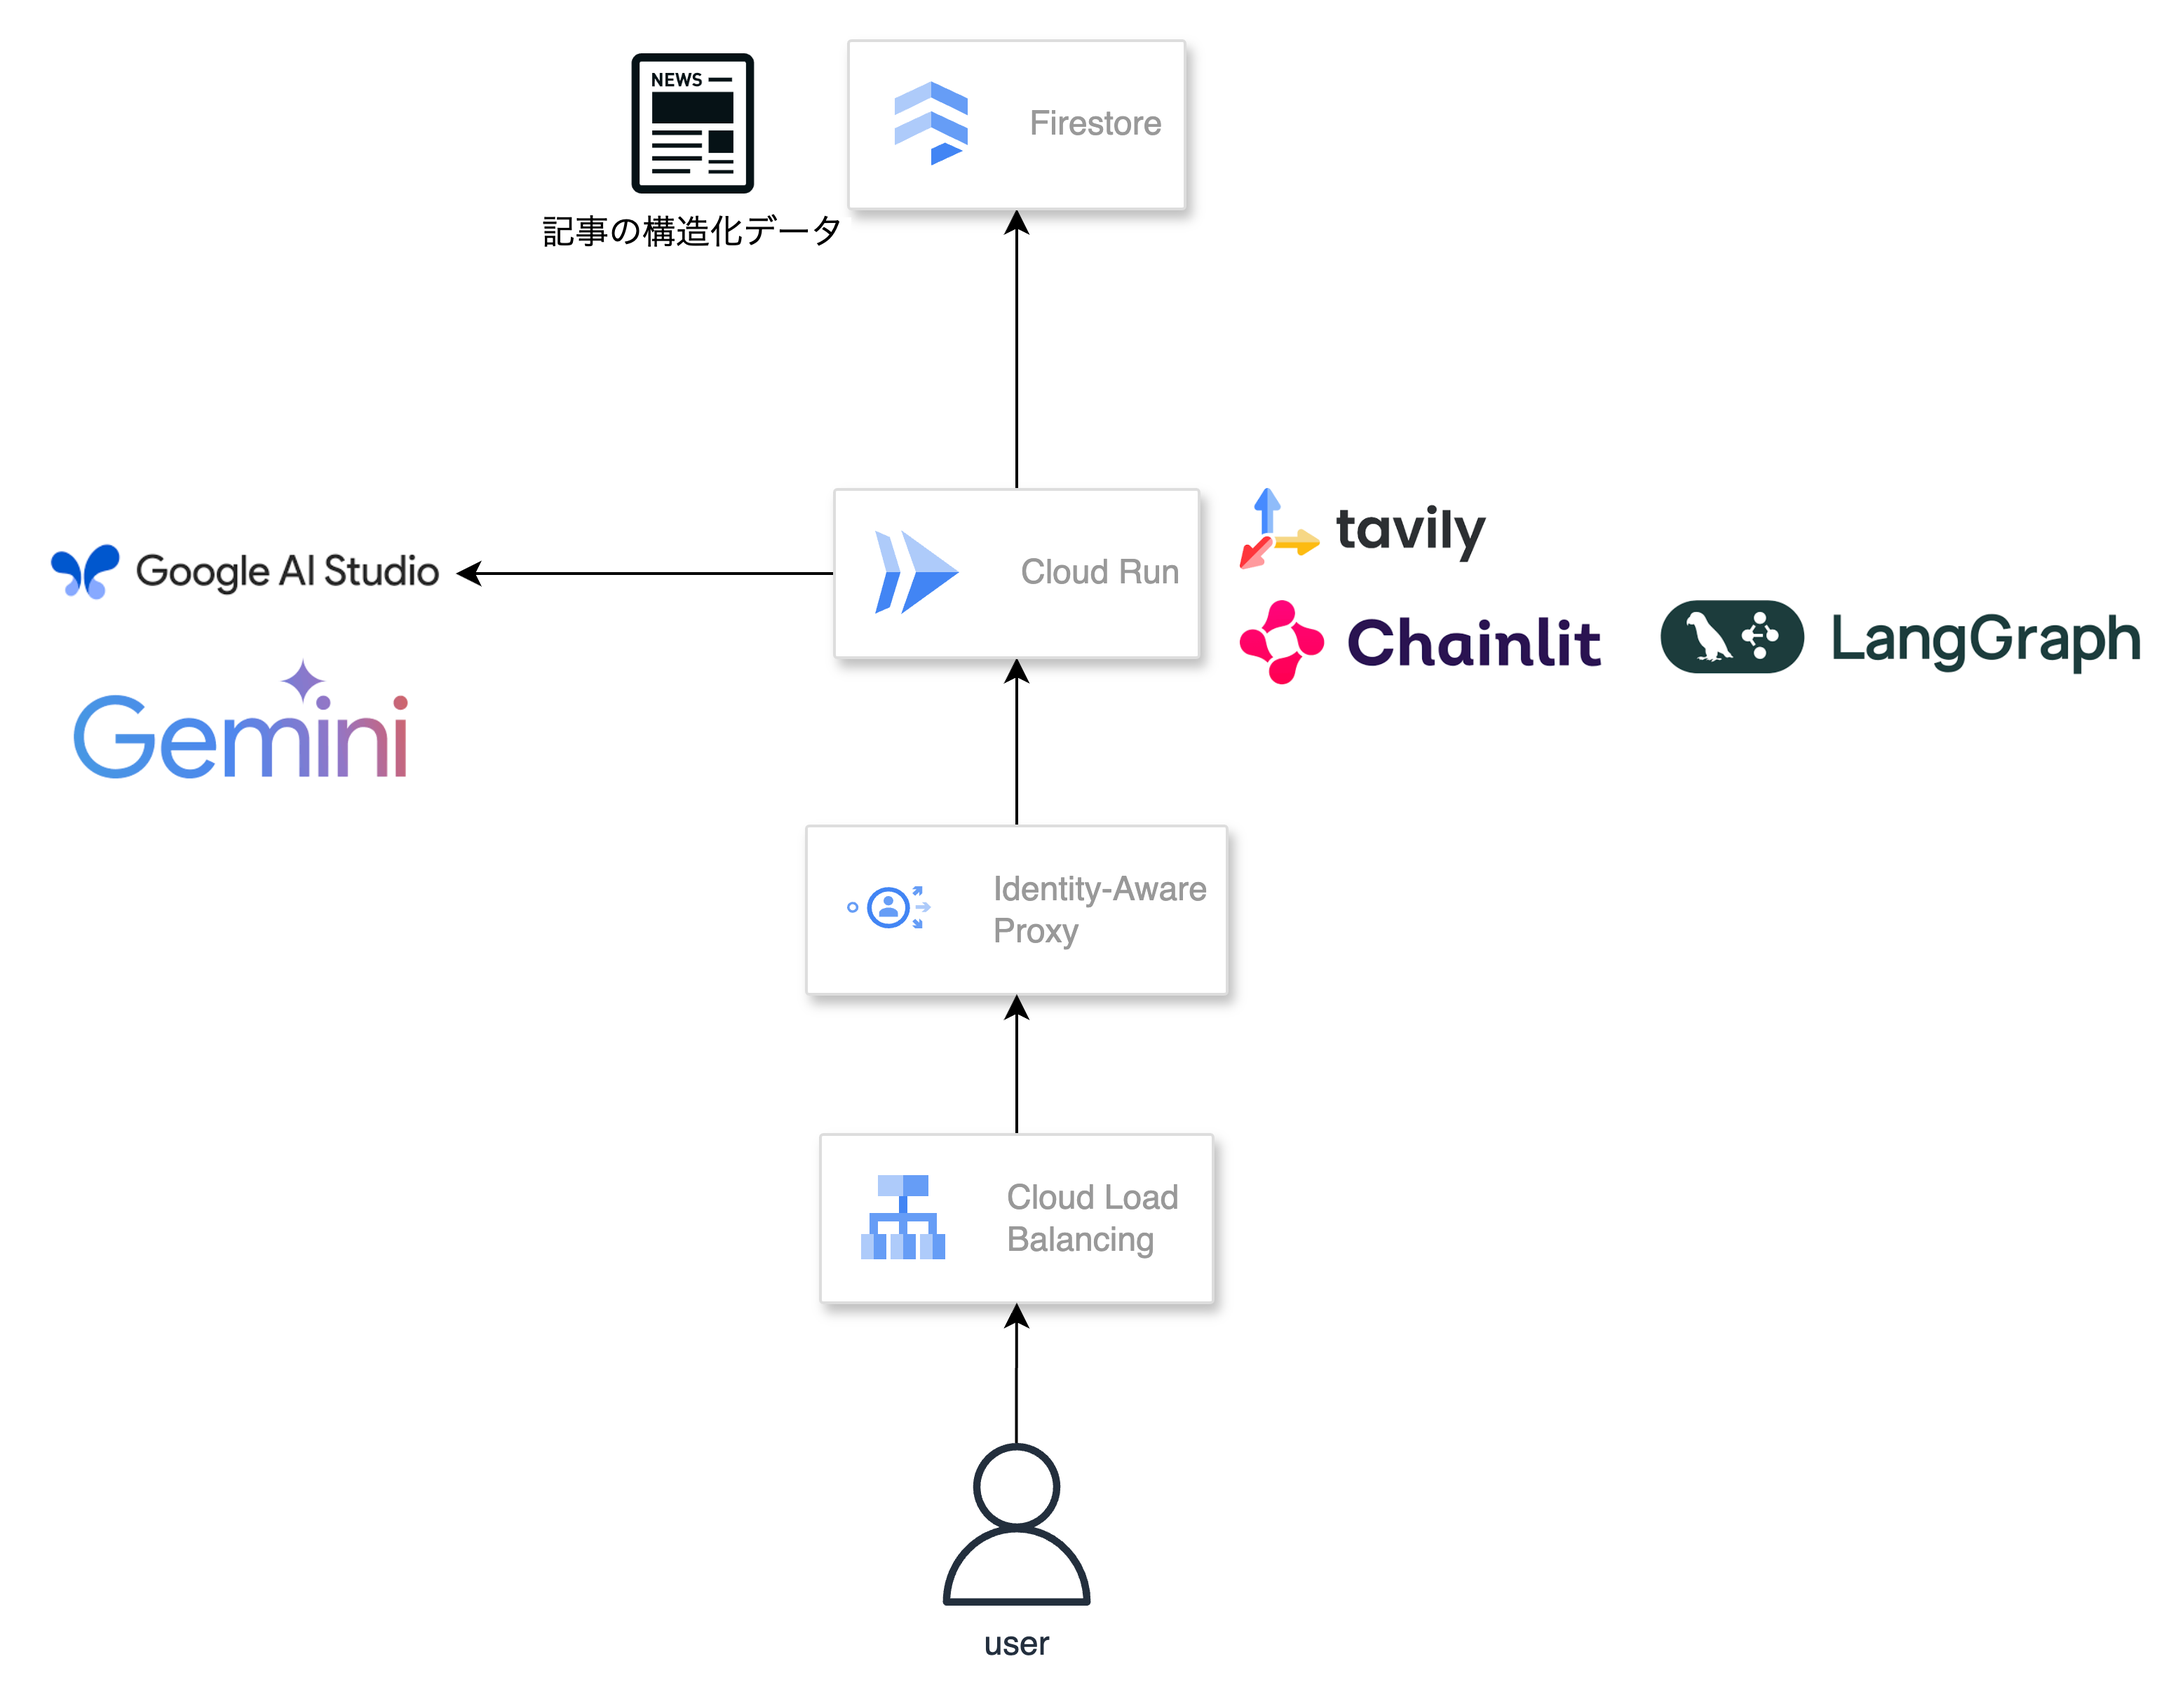
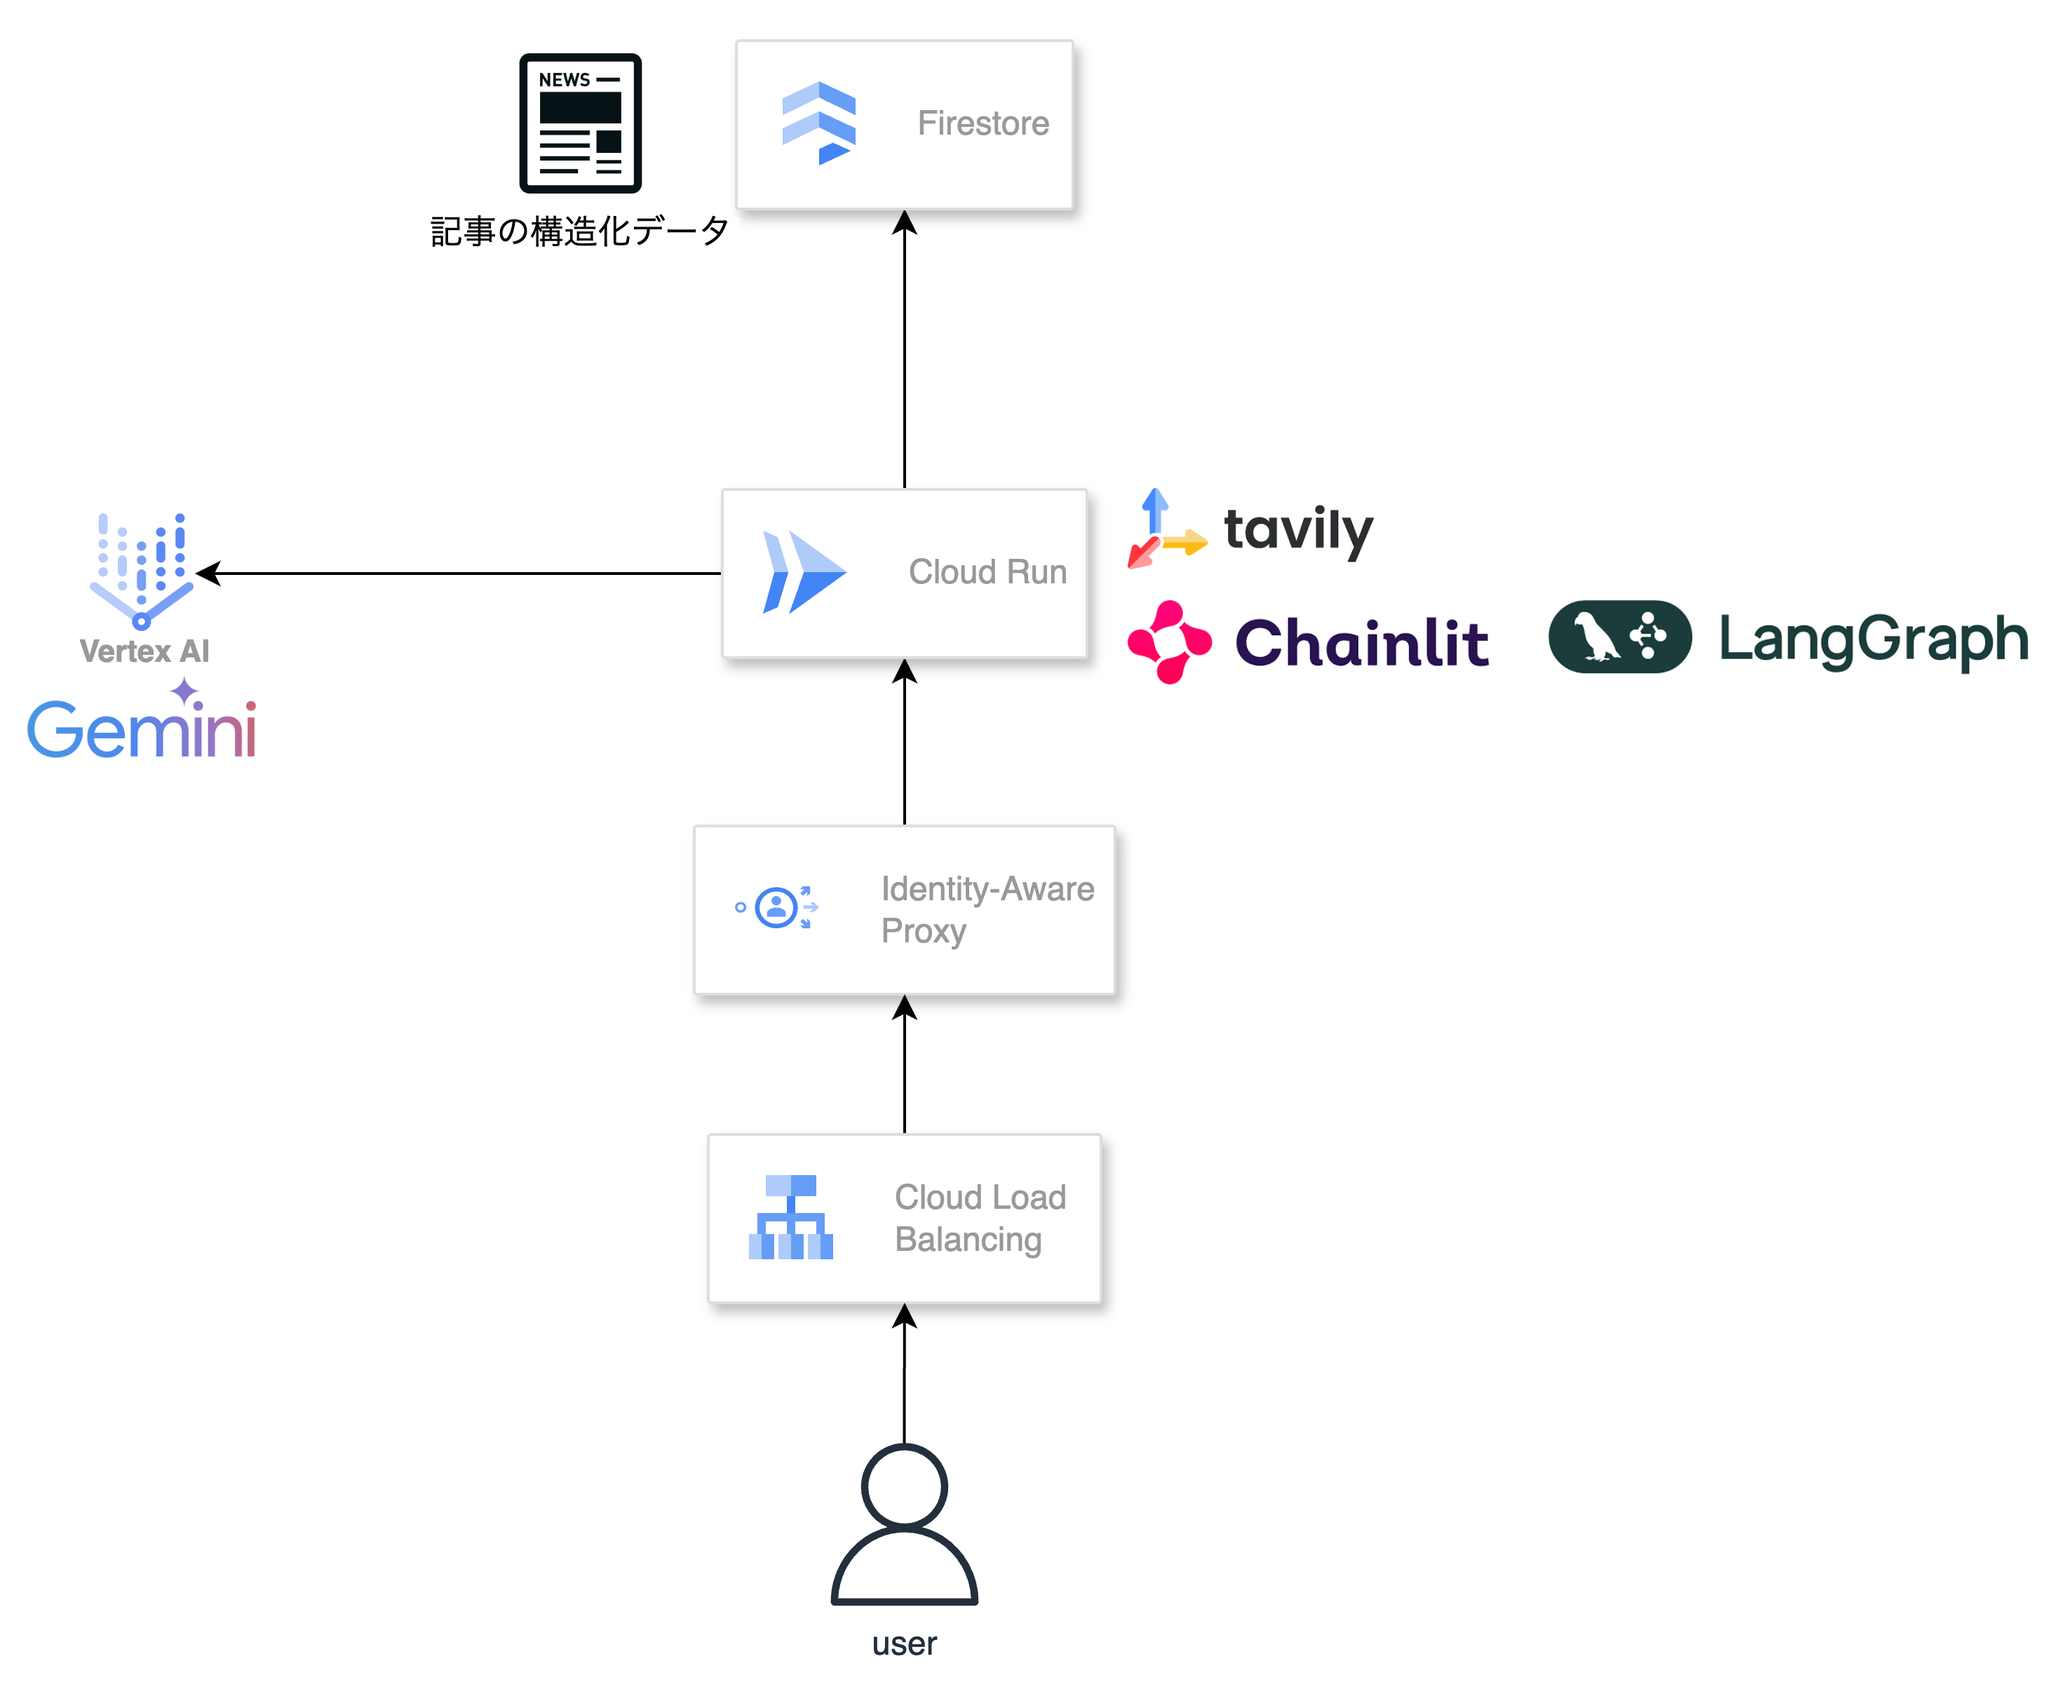
vertex_aiに変更

diff --git a/src/graph/topic_provider/choose_topic.py b/src/graph/topic_provider/choose_topic.py
@@ -8,7 +8,7 @@ from langchain.prompts import PromptTemplate
 from pydantic import BaseModel, Field
 from retry import retry
 
-from src.llm.gemini import gemini_model as model
+from src.llm.gemini import vertex_gemini_model as model
 from src.model.article import Article
 from src.repository.article import FireStoreArticleRepository
 from src.repository.article_raw_data import CloudStorageArticleRawRepository

diff --git a/src/graph/debater/search.py b/src/graph/debater/search.py
@@ -6,7 +6,7 @@ from langchain.prompts import PromptTemplate
 from pydantic import BaseModel, Field
 from retry import retry
 
-from src.llm.gemini import gemini_model as model
+from src.llm.gemini import vertex_gemini_model as model
 from src.model.article import Article
 from src.model.state.over_all import OverAllState
 from src.repository.article import FireStoreArticleRepository

diff --git a/src/graph/debater/debater.py b/src/graph/debater/debater.py
@@ -3,7 +3,7 @@ from langchain.output_parsers import PydanticOutputParser
 from langchain.prompts import PromptTemplate
 from retry import retry
 
-from src.llm.gemini import gemini_model as model
+from src.llm.gemini import vertex_gemini_model as model
 from src.model.state.debater import (
     DebateHistory,
     DebaterResponse,

diff --git a/src/graph/debater/prepare.py b/src/graph/debater/prepare.py
@@ -2,7 +2,7 @@
 from langchain.output_parsers import PydanticOutputParser
 from langchain.prompts import PromptTemplate
 
-from src.llm.gemini import gemini_model as model
+from src.llm.gemini import vertex_gemini_model as model
 from src.model.state.over_all import OverAllState
 from src.model.state.prepare import PrepareState
 

diff --git a/src/llm/gemini.py b/src/llm/gemini.py
@@ -1,4 +1,4 @@
-from langchain_google_genai import GoogleGenerativeAI
+from langchain_google_vertexai import VertexAI
 
 MODEL_NAME = "gemini-2.0-flash-exp"
-gemini_model = GoogleGenerativeAI(model=MODEL_NAME)
+vertex_gemini_model = VertexAI(model_name=MODEL_NAME)
